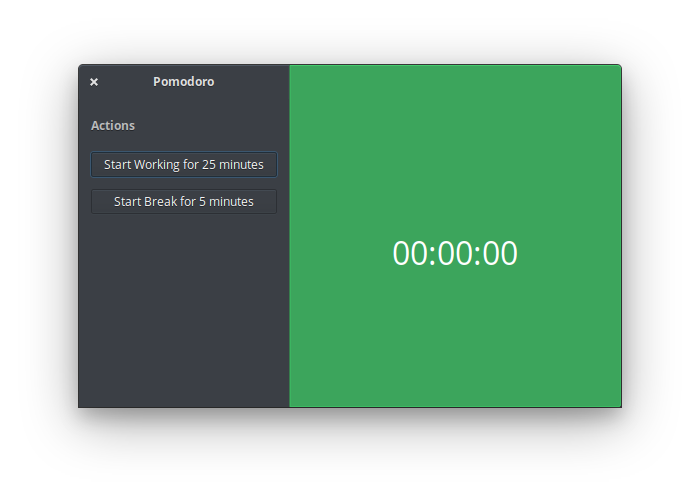
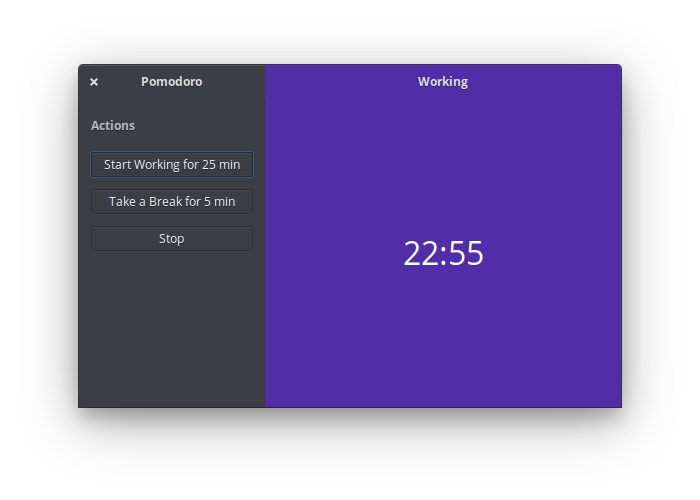
First Version 0.1.0

diff --git a/data/Application.css b/data/Application.css
@@ -7,22 +7,22 @@ grid.titlebar {
 }
 
 .timer-grid {
-    background-color: #3CA55C;
+    background-color: #512DA8;
     color: #fff;
     box-shadow:
-        inset 1px 0 0 0 shade (#3CA55C, 1.07),
-        inset -1px 0 0 0 shade (#3CA55C, 1.07),
-        inset 0 -1px 0 0 shade (#3CA55C, 1.1);
+        inset 1px 0 0 0 shade (#512DA8, 1.07),
+        inset -1px 0 0 0 shade (#512DA8, 1.07),
+        inset 0 -1px 0 0 shade (#512DA8, 1.1);
 }
 
 .timer-grid:dir(ltr) {
     border-bottom-right-radius: 3px;
-    border-left: solid 1px shade (#3CA55C, 0.8);
+    border-left: solid 1px shade (#512DA8, 0.8);
 }
 
 .timer-grid:dir(rtl) {
     border-bottom-right-radius: 3px;
-    border-right: solid 1px shade (#3CA55C, 0.8);
+    border-right: solid 1px shade (#512DA8, 0.8);
 }
 
 .actions-header:dir(ltr) {
@@ -34,19 +34,19 @@ grid.titlebar {
 }
 
 .timer-header {
-    background-color: #3CA55C;
+    background-color: #512DA8;
     box-shadow:
-        inset 1px 0 0 0 shade (#3CA55C, 1.07),
-        inset -1px 0 0 0 shade (#3CA55C, 1.07),
-        inset 0 1px 0 0 shade (#3CA55C, 1.2);
+        inset 1px 0 0 0 shade (#512DA8, 1.07),
+        inset -1px 0 0 0 shade (#512DA8, 1.07),
+        inset 0 1px 0 0 shade (#512DA8, 1.2);
 }
 
 .timer-header:dir(ltr) {
-    border-left: solid 1px shade (#3CA55C, 0.8);
+    border-left: solid 1px shade (#512DA8, 0.8);
     border-top-left-radius: 0;
 }
 
 .timer-header:dir(rtl) {
-    border-right: solid 1px shade (#3CA55C, 0.8);
+    border-right: solid 1px shade (#512DA8, 0.8);
     border-top-right-radius: 0;
 }
